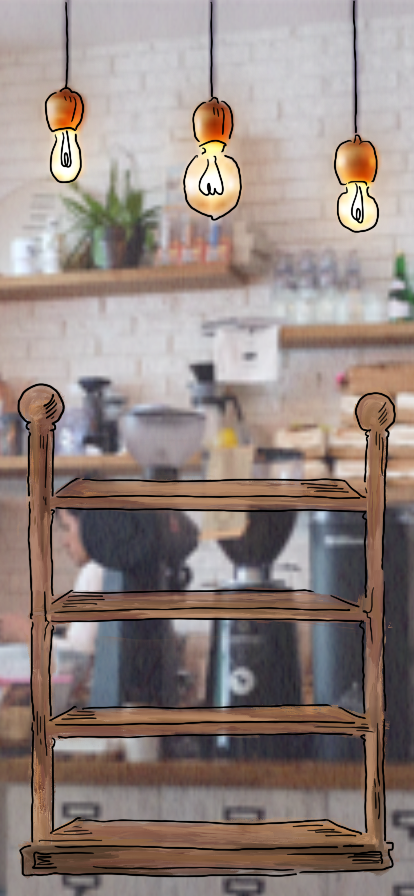
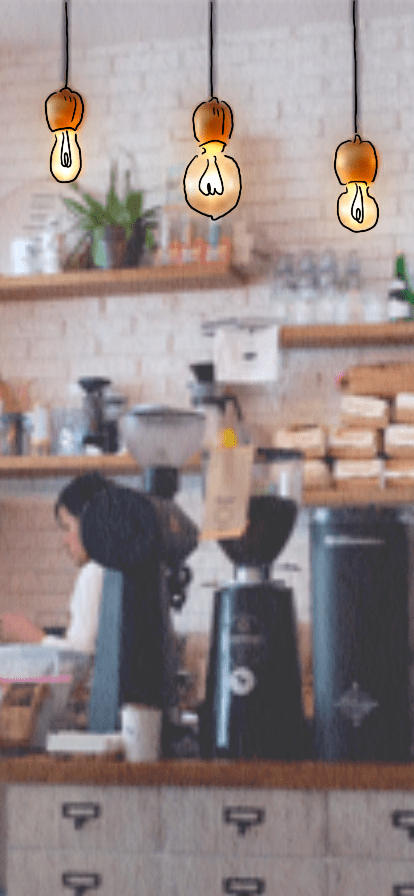
:sparkles: add subjectList img

diff --git a/src/pages/MainPage/MainPage.tsx b/src/pages/MainPage/MainPage.tsx
@@ -1,8 +1,16 @@
 import React from 'react';
 import BackgroundImage from '../../components/BackgroundImage/BackgroundImage';
+import InfoNpc from '../../components/InfoNpc/InfoNpc';
+import SubjectList from '../../components/SubjectList/SubjectList';
 
 function MainPage() {
-  return <BackgroundImage />;
+  return (
+    <div>
+      <BackgroundImage />
+      <InfoNpc />
+      <SubjectList />
+    </div>
+  );
 }
 
 export default MainPage;

diff --git a/src/components/BackgroundImage/BackgroundImage.tsx b/src/components/BackgroundImage/BackgroundImage.tsx
@@ -1,8 +1,9 @@
 import React from 'react';
 import backgroundImage from '../../assets/background/mobile_background.png';
+import styles from './BackgroundImage.module.scss';
 
 function BackgroundImage() {
-  return <img src={backgroundImage} alt="" />;
+  return <div className={styles.background} style={{ backgroundImage: `url(${backgroundImage})` }} />;
 }
 
 export default BackgroundImage;

diff --git a/src/components/SubjectList/SubjectList.tsx b/src/components/SubjectList/SubjectList.tsx
@@ -1,7 +1,11 @@
 import React from 'react';
+import styles from './SubjectList.module.scss';
+import subjectList from '../../assets/subjectList.png';
 
 function SubjectList() {
-  return <h1>SubjectList</h1>;
+  return (
+    <img className={styles.subjectList} src={subjectList} alt="" />
+  );
 }
 
 export default SubjectList;

diff --git a/src/components/InfoNpc/InfoNpc.tsx b/src/components/InfoNpc/InfoNpc.tsx
@@ -1,0 +1,9 @@
+import React from 'react';
+import styles from './InfoNpc.module.scss';
+import infoNpc from '../../assets/infonpc.png';
+
+function InfoNpc() {
+  return <img className={styles.infonpc} src={infoNpc} alt="" />;
+}
+
+export default InfoNpc;

diff --git a/src/components/BackgroundImage/BackgroundImage.module.scss b/src/components/BackgroundImage/BackgroundImage.module.scss
@@ -1,0 +1,6 @@
+.background {
+  height: 100vh;
+  background-position: center center;
+  background-size: cover;
+  background-repeat: no-repeat;
+}

diff --git a/src/components/InfoNpc/InfoNpc.module.scss b/src/components/InfoNpc/InfoNpc.module.scss
@@ -1,0 +1,7 @@
+.infonpc {
+    position: fixed;
+    top: 10%;
+    width: 60%;
+    margin-left: auto;
+    margin-right: auto;
+}

diff --git a/src/components/SubjectList/SubjectList.module.scss b/src/components/SubjectList/SubjectList.module.scss
@@ -1,0 +1,5 @@
+.subjectList {
+    position: fixed;
+    bottom: 0%;
+    width: 100%;
+}
